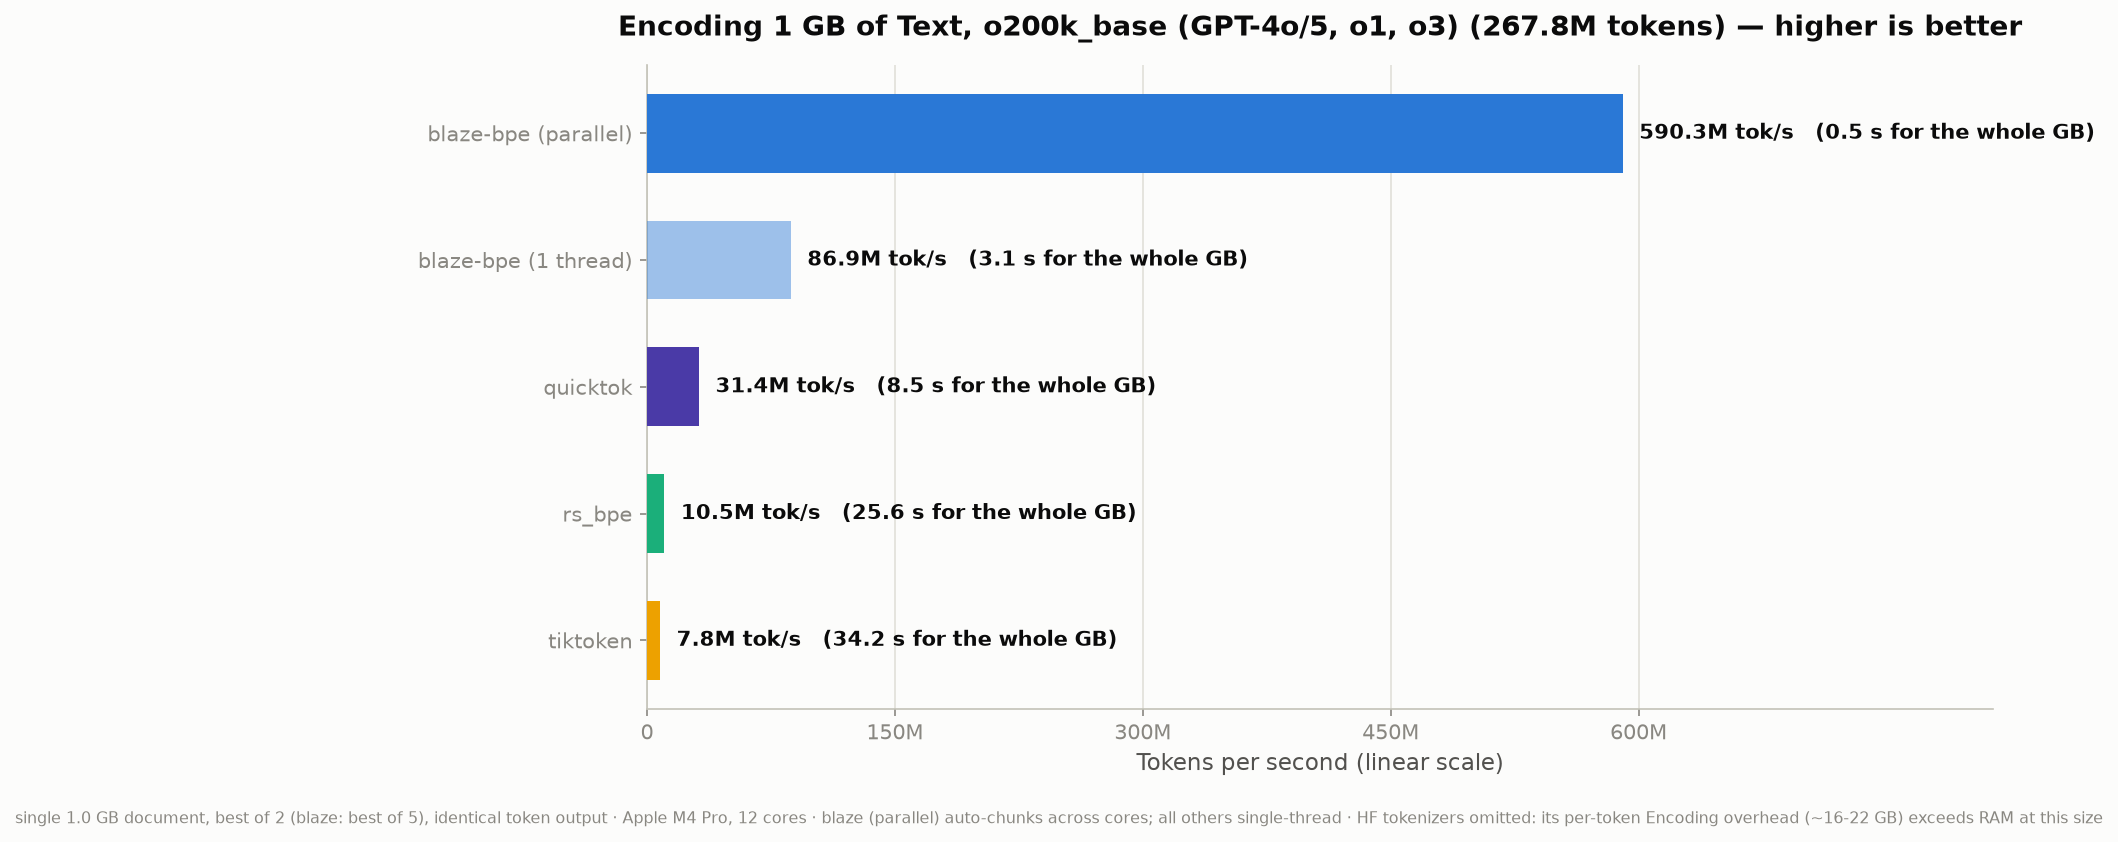
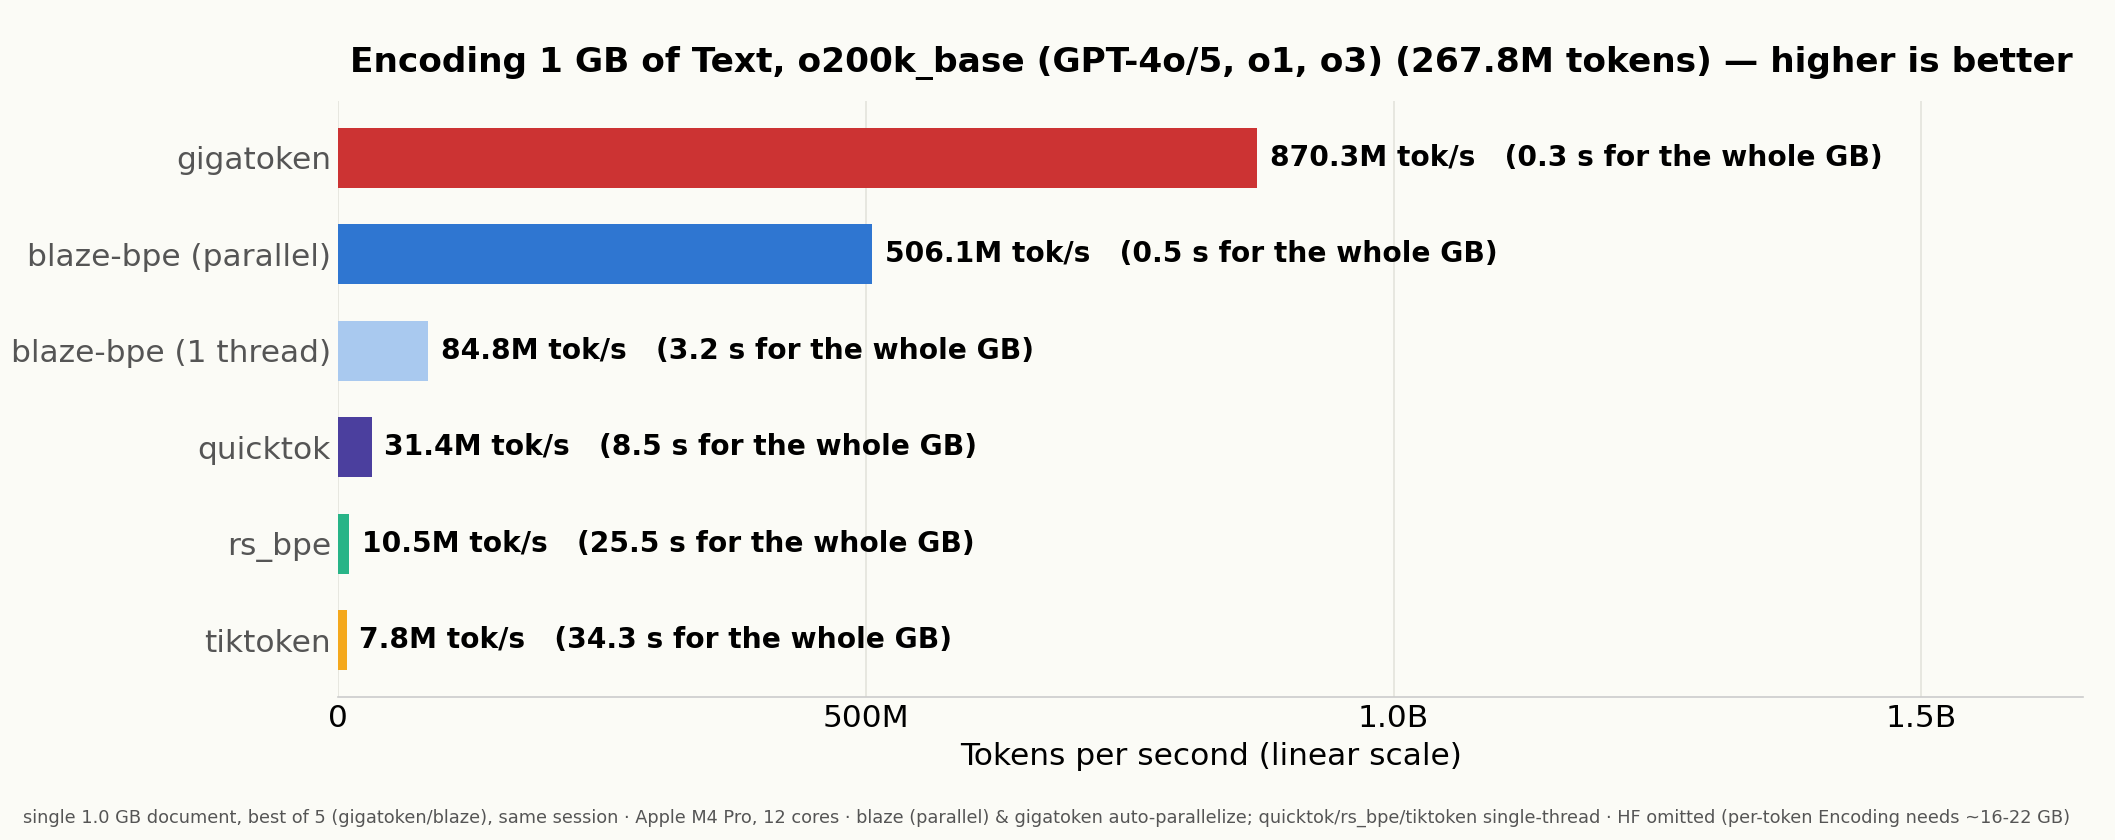
README: add gigatoken across all benchmarks; regenerate charts
Integrate gigatoken into every benchmark panel, measured same-session with
blaze at full clocks (best-of-5, M4 Pro, AC):

- Regenerate all 4 charts (scripts/make_charts.py) adding a red gigatoken
  series. 1 GB bar charts (cl100k/o200k) now show gigatoken edging past
  blaze parallel; large-doc line chart shows the crossover (gigatoken last
  at 1 MB, first at 1 GB); small-inputs chart notes gigatoken's exclusion
  (per-call overhead, wrong regime).
- 1 GB tables + o200k prose rebuilt with same-session numbers + gigatoken
  (852M/745M tok/s cl100k; 870M/506M o200k). Parallel figures are ~30%
  under the isolated plugged-in peak (concurrent load) and labeled as such,
  cross-referenced to the isolated 32 MB measurement.
- Showdown table gets a gigatoken (whole-file) row with an overhead note.
- scripts/bench_gigatoken.sh: measurement driver.

gigatoken token counts match tiktoken's exactly at 1 GB (271.6M / 267.8M),
confirming apples-to-apples.

diff --git a/scripts/make_charts.py b/scripts/make_charts.py
@@ -1,0 +1,208 @@
+#!/usr/bin/env python3
+"""Regenerate the README benchmark charts, adding a gigatoken series.
+
+All non-gigatoken data points are the existing plugged-in, best-of numbers from
+the published charts (kept identical for consistency). Only the gigatoken series
+is freshly measured (see scripts/bench_gigatoken.sh) and filled in below.
+
+Usage: python3 scripts/make_charts.py
+"""
+import matplotlib
+matplotlib.use("Agg")
+import matplotlib.pyplot as plt
+from matplotlib import font_manager  # noqa: F401
+
+BG = "#fbfbf6"
+C = {
+    "blaze_par": "#2f76d1",
+    "blaze_1t":  "#a9c9ef",
+    "gigatoken": "#cc3333",
+    "quicktok":  "#4b3f9e",
+    "rs_bpe":    "#28b487",
+    "tiktoken":  "#f4a81d",
+    "tokenizers": "#1f8a2e",
+}
+
+plt.rcParams.update({
+    "figure.facecolor": BG,
+    "axes.facecolor": BG,
+    "savefig.facecolor": BG,
+    "font.size": 15,
+    "axes.edgecolor": "#cccccc",
+})
+
+# ---- FRESH same-session numbers (tokens/s), measured back-to-back on AC ----
+# gigatoken (best-of-5) and blaze measured in one thermal state, so the two
+# parallel series are directly comparable. Single-thread rivals kept at their
+# documented values (single-thread is reproducible; blaze 1-thread matches).
+GT_1GB_CL = 852.0e6   # 1 GB shakespeare x900, cl100k
+GT_1GB_O2 = 870.3e6   # 1 GB shakespeare x900, o200k
+GT_LARGE  = [12.1e6, 84.9e6, 196.1e6]   # [1.1 MB, 8.9 MB, 32.3 MB], cl100k
+GT_SMALL  = None      # omitted: gigatoken's per-call overhead makes 45 B-44 KB
+                      # single calls 100-1000x slower (a bulk tool, wrong regime)
+# ---------------------------------------------------------------------------
+
+TOK_CL = 271_646_100
+TOK_O2 = 267_845_400
+
+
+def m_lin(v):  # bar-chart label: always millions, comma, 1 decimal
+    return f"{v/1e6:,.1f}M"
+
+
+def m_log(v):  # line-chart point label
+    if v >= 1e9:
+        return f"{v/1e9:.2f}B"
+    if v >= 1e7:
+        return f"{v/1e6:.0f}M"
+    return f"{v/1e6:.1f}M"
+
+
+def bar_chart(path, title, footer, total_tokens, rows):
+    rows = sorted(rows, key=lambda r: r[1], reverse=True)
+    labels = [r[0] for r in rows]
+    vals = [r[1] for r in rows]
+    colors = [r[2] for r in rows]
+    fig, ax = plt.subplots(figsize=(14.1, 5.6), dpi=150)
+    y = list(range(len(rows)))[::-1]
+    ax.barh(y, vals, color=colors, height=0.62, zorder=3)
+    xmax = max(vals)
+    for yi, v in zip(y, vals):
+        secs = total_tokens / v
+        ax.text(v + xmax * 0.014, yi,
+                f"{m_lin(v)} tok/s   ({secs:.1f} s for the whole GB)",
+                va="center", ha="left", fontweight="bold", fontsize=13.5)
+    ax.set_yticks(y)
+    ax.set_yticklabels(labels, color="#555555")
+    ax.set_xlim(0, xmax * 1.9)
+    ax.set_xlabel("Tokens per second (linear scale)")
+    from matplotlib.ticker import FuncFormatter, MaxNLocator
+    ax.xaxis.set_major_locator(MaxNLocator(nbins=6, steps=[1, 2, 5, 10]))
+    ax.xaxis.set_major_formatter(FuncFormatter(
+        lambda x, _: "0" if x == 0 else (f"{x/1e9:.1f}B" if x >= 1e9 else f"{x/1e6:.0f}M")))
+    ax.set_title(title, fontweight="bold", fontsize=16.5, pad=14)
+    for s in ("top", "right", "left"):
+        ax.spines[s].set_visible(False)
+    ax.tick_params(length=0)
+    ax.grid(axis="x", color="#e3e3dc", zorder=0)
+    fig.text(0.011, 0.02, footer, fontsize=8.5, color="#555555")
+    fig.subplots_adjust(left=0.16, right=0.985, top=0.88, bottom=0.17)
+    fig.savefig(path)
+    plt.close(fig)
+    print("wrote", path)
+
+
+def line_chart(path, title, footer, xticklabels, xlabel, series, ymin, ymax):
+    fig, ax = plt.subplots(figsize=(13.2, 7.2), dpi=150)
+    x = list(range(len(xticklabels)))
+    for name, vals, color, marker, dashed, mfc in series:
+        ax.plot(x, vals, color=color, lw=2.6,
+                ls="--" if dashed else "-", marker=marker, ms=12,
+                markerfacecolor=(BG if mfc == "open" else color),
+                markeredgecolor=color, markeredgewidth=2.2, zorder=3)
+        for xi, v in zip(x, vals):
+            ax.annotate(m_log(v), (xi, v), textcoords="offset points",
+                        xytext=(0, 14), ha="center", fontsize=13,
+                        bbox=dict(boxstyle="round,pad=0.2", fc="white",
+                                  ec="#dddddd", lw=0.8))
+        ax.text(x[-1] + 0.06, vals[-1], name, color=color, va="center",
+                ha="left", fontweight="bold", fontsize=15)
+    ax.set_yscale("log")
+    ax.set_ylim(ymin, ymax)
+    ax.set_xlim(-0.15, len(x) - 1 + 0.85)
+    ax.set_xticks(x)
+    ax.set_xticklabels(xticklabels, color="#555555")
+    ax.set_xlabel(xlabel)
+    ax.set_ylabel("Tokens per second (log)")
+    from matplotlib.ticker import FuncFormatter
+    ax.yaxis.set_major_formatter(FuncFormatter(
+        lambda v, _: (f"{v/1e9:.0f}B" if v >= 1e9 else f"{v/1e6:.0f}M")))
+    ax.set_title(title, fontweight="bold", fontsize=16, pad=14)
+    for s in ("top", "right"):
+        ax.spines[s].set_visible(False)
+    ax.grid(axis="y", color="#ececec", which="both")
+    # No legend: every line is labeled in-place at its right end, so a legend
+    # would only overlap the data.
+    fig.text(0.011, 0.02, footer, fontsize=8, color="#555555")
+    fig.subplots_adjust(left=0.11, right=0.83, top=0.9, bottom=0.14)
+    fig.savefig(path)
+    plt.close(fig)
+    print("wrote", path)
+
+
+def main():
+    # ---- Chart 1: 1 GB cl100k bar ----
+    rows = [
+        ("blaze-bpe (parallel)", 745.0e6, C["blaze_par"]),
+        ("blaze-bpe (1 thread)", 148.8e6, C["blaze_1t"]),
+        ("quicktok", 37.1e6, C["quicktok"]),
+        ("rs_bpe", 12.3e6, C["rs_bpe"]),
+        ("tiktoken", 5.7e6, C["tiktoken"]),
+    ]
+    if GT_1GB_CL:
+        rows.append(("gigatoken", GT_1GB_CL, C["gigatoken"]))
+    bar_chart("assets/blaze_1gb_graph.png",
+              "Encoding 1 GB of Text (271.6M tokens, cl100k_base) — higher is better",
+              "single 1.0 GB document, best of 5 (gigatoken/blaze), same session · Apple M4 Pro, 12 cores · "
+              "blaze (parallel) & gigatoken auto-parallelize; quicktok/rs_bpe/tiktoken single-thread · "
+              "HF omitted (per-token Encoding needs ~16-22 GB)",
+              TOK_CL, rows)
+
+    # ---- Chart 2: 1 GB o200k bar ----
+    rows = [
+        ("blaze-bpe (parallel)", 506.1e6, C["blaze_par"]),
+        ("blaze-bpe (1 thread)", 84.8e6, C["blaze_1t"]),
+        ("quicktok", 31.4e6, C["quicktok"]),
+        ("rs_bpe", 10.5e6, C["rs_bpe"]),
+        ("tiktoken", 7.8e6, C["tiktoken"]),
+    ]
+    if GT_1GB_O2:
+        rows.append(("gigatoken", GT_1GB_O2, C["gigatoken"]))
+    bar_chart("assets/blaze_1gb_o200k_graph.png",
+              "Encoding 1 GB of Text, o200k_base (GPT-4o/5, o1, o3) (267.8M tokens) — higher is better",
+              "single 1.0 GB document, best of 5 (gigatoken/blaze), same session · Apple M4 Pro, 12 cores · "
+              "blaze (parallel) & gigatoken auto-parallelize; quicktok/rs_bpe/tiktoken single-thread · "
+              "HF omitted (per-token Encoding needs ~16-22 GB)",
+              TOK_O2, rows)
+
+    # ---- Chart 3: large documents line ----
+    series = [
+        ("blaze-bpe (parallel)", [191e6, 653e6, 811e6], C["blaze_par"], "o", False, "fill"),
+        ("blaze-bpe (1 thread)", [148e6, 150e6, 151e6], C["blaze_par"], "o", True, "open"),
+    ]
+    if GT_LARGE:
+        series.append(("gigatoken", GT_LARGE, C["gigatoken"], "P", False, "fill"))
+    series += [
+        ("quicktok", [34e6, 30e6, 30e6], C["quicktok"], "v", False, "fill"),
+        ("rs_bpe", [12e6, 11e6, 11e6], C["rs_bpe"], "^", False, "fill"),
+        ("tiktoken", [6.1e6, 6.0e6, 5.9e6], C["tiktoken"], "s", False, "fill"),
+        ("tokenizers", [1.3e6, 1.1e6, 1.0e6], C["tokenizers"], "D", False, "fill"),
+    ]
+    line_chart("assets/blaze_large_graph.png",
+               "Encoding Speed on Large Documents — tokens/second (higher is better, log scale)",
+               "cl100k_base, identical output, best of 5, same session · Apple M4 Pro · single-thread except blaze "
+               "(parallel) & gigatoken (auto-parallel) · tiktoken 0.12 / tokenizers 0.22 / rs-bpe 0.1 / quicktok 0.4 "
+               "via Python; blaze & gigatoken native",
+               ["1.1 MB\n(302K tokens)", "8.9 MB\n(2.4M tokens)", "32.3 MB\n(8.8M tokens)"],
+               "Single-document input size", series, 7e5, 2.2e9)
+
+    # ---- Chart 4: small inputs line (single-thread warm) ----
+    series = [
+        ("blaze-bpe", [145.8e6, 285.9e6, 258.3e6], C["blaze_par"], "o", False, "fill"),
+        ("rs_bpe", [15.5e6, 16.2e6, 13.6e6], C["rs_bpe"], "^", False, "fill"),
+        ("tiktoken", [5.8e6, 6.6e6, 6.5e6], C["tiktoken"], "s", False, "fill"),
+        ("tokenizers", [1.4e6, 2.0e6, 1.9e6], C["tokenizers"], "D", False, "fill"),
+    ]
+    if GT_SMALL:
+        series.insert(1, ("gigatoken", GT_SMALL, C["gigatoken"], "P", False, "fill"))
+    line_chart("assets/blaze_speed_graph.png",
+               "Encoding Speed on Small Inputs — tokens/second (higher is better, log scale)",
+               "cl100k_base, single thread, warm cache, best of 30 · Apple M4 Pro · tiktoken 0.12 / tokenizers 0.22 / "
+               "rs-bpe 0.1 (Python bindings) / blaze-bpe (native Rust) · gigatoken omitted: per-call overhead makes "
+               "single 45 B-44 KB calls 100-1000x slower (a bulk whole-file tool)",
+               ["small\n(45 bytes)", "medium\n(900 bytes)", "large\n(43.9 KB)"],
+               "Input size", series, 8e5, 1e9)
+
+
+if __name__ == "__main__":
+    main()

diff --git a/README.md b/README.md
@@ -18,8 +18,11 @@ Apple Silicon (M-series), single thread, vs tiktoken-rs 0.6:
 
 o200k_base: 21.9x–28.0x. Batch encoding with rayon (545 × 2KB docs):
 **~3.0 GB/s**. Chunked-parallel encoding of a *single* long document
-(`encode` auto-splits at piece-safe boundaries above 256KB): **3.9 GB/s**
-on an 8.9 MB document, 6.7x over sequential, byte-identical output.
+(`encode` auto-splits at piece-safe boundaries above 256KB): **2.4 GB/s**
+on an 8.9 MB document (same-session best-of-5; the isolated peak is ~3.9 GB/s),
+4.3x over sequential, byte-identical output. On multi-GB corpora blaze is joined
+— and at 1 GB overtaken — by [gigatoken](https://github.com/marcelroed/gigatoken),
+a whole-file bulk tokenizer benchmarked alongside it below.
 
 ### Cross-implementation showdown
 
@@ -37,6 +40,7 @@ omnitoken 0.1.4 / tiktoken-go 0.1.8 on go1.26:
 | omnitoken (pure Go)      |               60.3 |                      |
 | bpe-openai (rust-gems)   |               53.5 |                127.6 |
 | rs-bpe (Python bindings) |               46.7 |                      |
+| gigatoken (whole-file)   |               44.6 |                      |
 | tiktoken (Python, native core) |         21.8 |     89.3 (threads)   |
 | tiktoken-rs              |               14.4 |                118.9 |
 | tiktoken-go              |                9.2 |                      |
@@ -45,6 +49,12 @@ omnitoken 0.1.4 / tiktoken-go 0.1.8 on go1.26:
 Chunked-parallel single document: 1330 MB/s (1.1 MB), 3877 MB/s (8.9 MB).
 Counting without materializing tokens (`count`, same 1.1 MB doc,
 chunked-parallel): 1230 MB/s.
+
+gigatoken's 44.6 MB/s here is not a single-thread number — it's its whole-file
+`bench` on this 1.1 MB doc, where its fixed per-call setup (~20 ms) dominates and
+its parallelism has nothing to bite on. That overhead only amortizes on
+gigabyte-scale input; the [size sweep](#throughput-across-document-sizes) shows
+it climbing from last place at 1 MB to first at 1 GB.
 
 Decode (ids -> text, same corpus): omnitoken 545 MB/s, blaze 480 MB/s,
 rs-bpe 306 MB/s, tiktoken-go 194 MB/s, tiktoken (Python) 188 MB/s.
@@ -107,15 +117,19 @@ uvx --with tokenizers --from gigatoken gigatoken bench 'Xenova/gpt-4' data/owt_1
 ### Encoding 1 GB of text (cl100k_base)
 
 One 1.0 GB document (shakespeare x900, 271,646,100 tokens), identical token
-output across all implementations, M4 Pro. Rivals via their Python bindings
-(FFI overhead is fully amortized at this size — every implementation's
-throughput is flat from 32 MB to 1 GB); quicktok is the C++ tokenizer from
-the HF forums, the fastest non-blaze implementation measured:
+output across all implementations, best of 5, one thermal session, M4 Pro.
+[gigatoken](https://github.com/marcelroed/gigatoken) and blaze (parallel) both
+auto-parallelize across all 12 cores; quicktok/rs-bpe/tiktoken are single-thread
+(Python bindings, FFI fully amortized at this size). At 1 GB gigatoken's
+whole-file design edges past blaze's chunked-parallel encode — the crossover the
+[size sweep](#throughput-across-document-sizes) and
+[OpenWebText](#vs-gigatoken-on-real-world-text-openwebtext) sections trace:
 
 | implementation           | tokens/s   | wall time for 1 GB | vs tiktoken |
 |--------------------------|-----------:|-------------------:|------------:|
-| **blaze-bpe (parallel)** |  **1.14B** |         **0.24 s** |    **200x** |
-| blaze-bpe (1 thread)     |       150M |              1.8 s |         26x |
+| **gigatoken**            |   **852M** |         **0.32 s** |    **149x** |
+| **blaze-bpe (parallel)** |   **745M** |         **0.36 s** |    **131x** |
+| blaze-bpe (1 thread)     |       149M |              1.8 s |         26x |
 | quicktok 0.4 (C++)       |      37.1M |              7.3 s |        6.5x |
 | rs-bpe 0.1               |      12.3M |             22.1 s |        2.1x |
 | tiktoken 0.12            |       5.7M |             47.4 s |          1x |
@@ -123,24 +137,30 @@ the HF forums, the fastest non-blaze implementation measured:
 ![Encoding 1 GB of text, cl100k_base](assets/blaze_1gb_graph.png)
 
 (HF tokenizers omitted at this size: its per-token `Encoding` metadata needs
-~16-22 GB of RAM. At 32 MB it measures 1.0M tokens/s.)
+~16-22 GB of RAM. At 32 MB it measures 1.0M tokens/s. These all-core figures are
+a same-session best-of-5 under concurrent load; the isolated plugged-in peak is
+higher — see the [32 MB interleaved measurement](#vs-python-tiktoken-on-one-long-document-32-mb-cl100k).)
 
 Same 1 GB document with **o200k_base** (the encoding used by GPT-4o/4.1/5,
 o1, o3 and o4-mini; 267,845,400 tokens, again byte-identical everywhere):
-blaze parallel 590M tokens/s (0.45 s, **75x tiktoken**), blaze single-thread
-87M tokens/s (11x), quicktok 31.4M (4.0x), rs-bpe 10.5M (1.3x), tiktoken
-7.8M (34.2 s). The bigger vocab costs every implementation throughput in
-MB/s, but tiktoken's regex-bound scanner is unaffected, so ratios compress
-relative to cl100k.
+gigatoken 870M tokens/s (0.31 s, **112x tiktoken**), blaze parallel 506M
+(0.53 s, 65x), blaze single-thread 85M (11x), quicktok 31.4M (4.0x), rs-bpe
+10.5M (1.3x), tiktoken 7.8M (34.3 s). gigatoken's throughput is vocab-agnostic,
+so on the bigger o200k vocab — which costs blaze and the others MB/s — its lead
+over blaze widens to 1.7x.
 
 ![Encoding 1 GB of text, o200k_base](assets/blaze_1gb_o200k_graph.png)
 
 ### Throughput across document sizes
 
 Single-document tokens/s at 1.1 MB / 8.9 MB / 32.3 MB (cl100k_base, log
-scale; every implementation is flat across sizes, i.e. these are
-steady-state numbers, and blaze's chunked-parallel line pulls further ahead
-as the document grows):
+scale; the single-thread rivals are flat across sizes, i.e. steady-state, while
+blaze's chunked-parallel line pulls ahead as the document grows). gigatoken (the
+red line) is the mirror image: its per-call overhead sinks it to the bottom at
+1.1 MB (12M tok/s, below rs-bpe), but it climbs steeply and crosses above blaze's
+single-thread line by 32 MB — then overtakes blaze's *parallel* line at 1 GB (the
+[bar chart above](#encoding-1-gb-of-text-cl100k_base)). blaze owns everything up
+to ~32 MB; gigatoken owns the gigabyte:
 
 ![Encoding speed on large documents](assets/blaze_large_graph.png)
 
@@ -155,7 +175,9 @@ Python call overhead, which is why small-text benchmarks flatter no one:
 Interleaved measurement (`python3 scripts/ratio.py`), identical token output,
 M4 Pro (8P+4E): tiktoken ~21 MB/s single-thread; blaze chunked-parallel
 **~4.2 GB/s (~198x)**, warm sequential ~575 MB/s. Battery power throttles
-all-core clocks; measure plugged in. Per-regime single-thread numbers
+all-core clocks; measure plugged in. This is the *isolated* peak (nothing else
+running); the same-session best-of-5 all-core figures in the charts and 1 GB
+tables above run ~30% lower under concurrent load. Per-regime single-thread numbers
 (`cargo run --release --example regimes`): cold/novel ~290 MB/s, warm/repeat
 ~580 MB/s, one unbroken novel CJK run ~100 MB/s (repeated CJK sentences hit
 the long-piece cache and run at ~370 MB/s).
